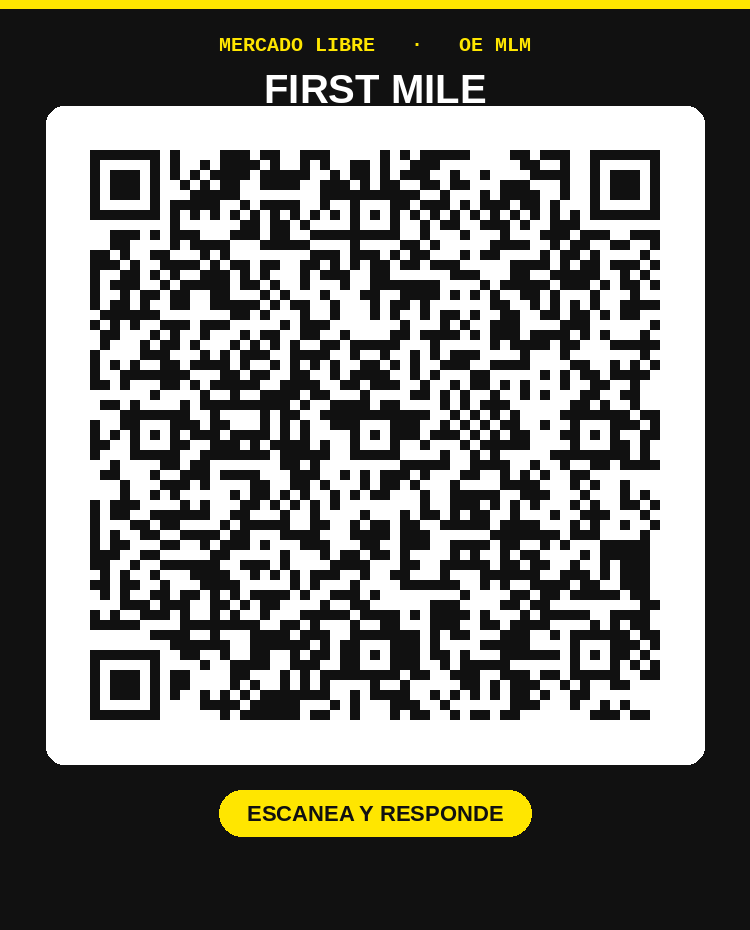
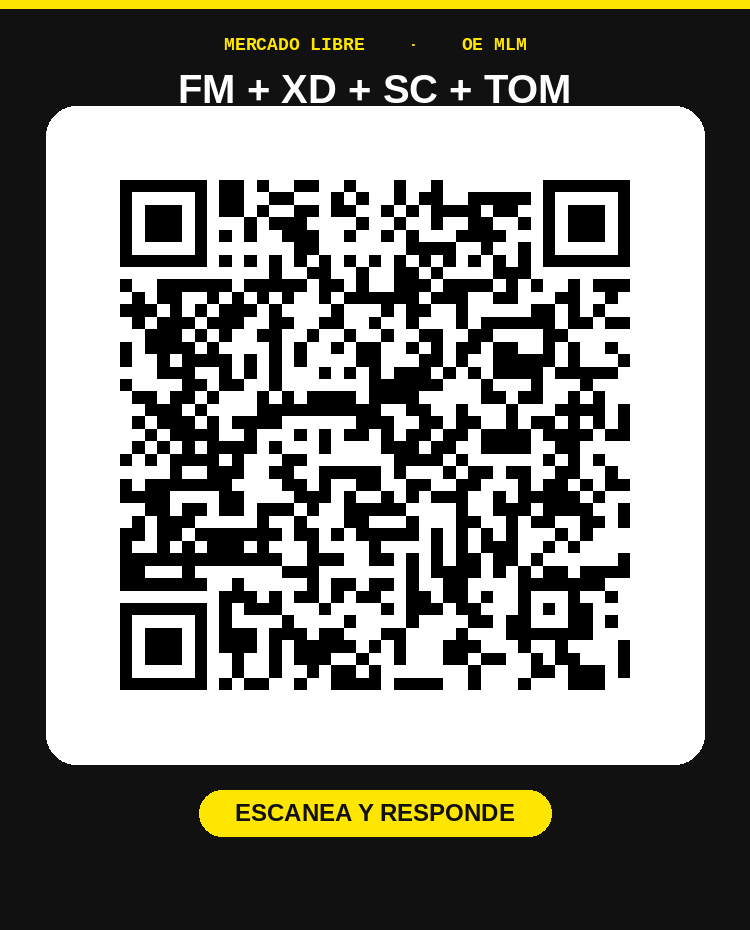
Estandarizar siglas de areas OE aprobadas por Rich (FM + XD + SC + TOM / SVC + Last Mile / Quality)
- Playbook de Supervisores: header, titulos de tarjeta QR, chips y checklist
  ahora usan las siglas aprobadas en vez de nombres completos (First Mile,
  Service Center).
- QR codes regenerados con el mismo diseño (fondo negro, panel blanco,
  boton ESCANEA Y RESPONDE) pero con el titulo actualizado; los links
  encodeados siguen siendo los mismos Forms, verificado por decodificacion.
- Hub: tarjetas de Boletines corregidas a las mismas siglas completas.

diff --git a/playbooks/Playbook_Supervisores_NL.html b/playbooks/Playbook_Supervisores_NL.html
@@ -144,7 +144,7 @@
   <div class="hdr">
     <div class="hdr-eyebrow">Mercado Libre · OE MLM</div>
     <div class="hdr-title">Playbook OE — Boletín Mensual</div>
-    <div class="hdr-sub">Guía rápida para llenar tu Form del boletín: First Mile, Service Center y Quality.</div>
+    <div class="hdr-sub">Guía rápida para llenar tu Form del boletín: FM + XD + SC + TOM, SVC + Last Mile y Quality.</div>
     <div class="hdr-badge">Versión Supervisores</div>
     <div class="hdr-ver">v2.2 · 21-ago-2026 · PMO OE MLM</div>
   </div>
@@ -240,12 +240,12 @@
           <b>¿Vas a incluir fotos?</b> (opcional) Primero sube tus imágenes a la <b>carpeta de fotos</b> de tu área (botón &ldquo;Carpeta de fotos&rdquo; abajo). Luego, dentro de Drive, clic derecho sobre cada foto → <b>Compartir</b> → <b>Copiar enlace</b>, y pega ese link en la pregunta correspondiente del Form.
         </div>
 
-        <!-- First Mile -->
+        <!-- FM + XD + SC + TOM -->
         <div class="area-card">
-          <img src="qr/QR_FirstMile.png" alt="QR First Mile"/>
+          <img src="qr/QR_FirstMile.png" alt="QR FM + XD + SC + TOM"/>
           <div>
-            <div class="area-title">First Mile</div>
-            <div class="chips"><span>First Mile</span><span>Cross Dock</span><span>Sort Center</span><span>TOM</span></div>
+            <div class="area-title">FM + XD + SC + TOM</div>
+            <div class="chips"><span>FM</span><span>XD</span><span>SC</span><span>TOM</span></div>
             <div class="area-actions">
               <a class="btn btn-primary" href="https://docs.google.com/forms/d/e/1FAIpQLSeVnYIX7DU0_gXKienuEPpBQwApll8FfDY0Klm4Mx-QYeK3Zg/viewform" target="_blank" rel="noopener">Responder Form</a>
               <a class="btn btn-secondary" href="https://drive.google.com/drive/folders/1PlEISmRix5iD_M8NW5fXHN0lxeheiXRK" target="_blank" rel="noopener">Carpeta de fotos</a>
@@ -253,12 +253,12 @@
           </div>
         </div>
 
-        <!-- Service Center -->
+        <!-- SVC + Last Mile -->
         <div class="area-card">
-          <img src="qr/QR_ServiceCenter.png" alt="QR Service Center"/>
+          <img src="qr/QR_ServiceCenter.png" alt="QR SVC + Last Mile"/>
           <div>
-            <div class="area-title">Service Center</div>
-            <div class="chips"><span>Service Center</span><span>Last Mile</span><span>SVC</span><span>LM</span></div>
+            <div class="area-title">SVC + Last Mile</div>
+            <div class="chips"><span>SVC</span><span>LM</span></div>
             <div class="area-actions">
               <a class="btn btn-primary" href="https://docs.google.com/forms/d/e/1FAIpQLSeMYkJM12AhCzB3VlvUbZ4WaARWrQotAZm5gcxRHj-z_g9eNw/viewform" target="_blank" rel="noopener">Responder Form</a>
               <a class="btn btn-secondary" href="https://drive.google.com/drive/folders/1bSokpLlLd_8-b8lUfSOdDi8S6akZ4Vkj" target="_blank" rel="noopener">Carpeta de fotos</a>
@@ -288,7 +288,7 @@
 
         <div class="checklist-grid">
           <div class="checklist">
-            <div class="cl-title">First Mile y Service Center</div>
+            <div class="cl-title">FM + XD + SC + TOM y SVC + Last Mile</div>
             <ul>
               <li>Lista de proyectos activos del mes (nombre, estatus, breve descripción). El Form permite hasta <b>6 proyectos</b>, pero no es obligatorio llenarlos todos: prioriza los de mayor impacto.</li>
               <li>Historias de éxito (opcional, máximo <b>2 por mes</b>): título claro, descripción breve del impacto, y una métrica o dato que lo respalde.</li>
@@ -303,8 +303,8 @@
               <li>Mensaje de bienvenida del mes (2–3 líneas): tu resumen ejecutivo.</li>
               <li>Proyectos o iniciativas del mes (nombre, estatus, breve descripción). Hasta <b>6 proyectos</b>, no obligatorio llenarlos todos.</li>
               <li>Secciones editoriales: <b>Resultados del Cierre</b> y <b>Posicionamiento en Auditorías</b>, hasta <b>2 historias por sección</b>.</li>
-              <li>Eventos relevantes del mes (capacitaciones, visitas, auditorías, logros) — igual que First Mile y Service Center.</li>
-              <li>Nuevos ingresos al equipo (nombre completo y correo @mercadolibre.com, si aplica) — igual que First Mile y Service Center.</li>
+              <li>Eventos relevantes del mes (capacitaciones, visitas, auditorías, logros) — igual que FM + XD + SC + TOM y SVC + Last Mile.</li>
+              <li>Nuevos ingresos al equipo (nombre completo y correo @mercadolibre.com, si aplica) — igual que FM + XD + SC + TOM y SVC + Last Mile.</li>
               <li>Links a fotos de evidencia (opcional, sube antes al Drive de tu área).</li>
             </ul>
           </div>

diff --git a/index.html b/index.html
@@ -680,13 +680,13 @@
           <div class="bulletin-grid">
             <a class="bulletin-card" href="boletines/2026-07/Boletin_FirstMile.html" target="_blank" rel="noopener">
               <div class="bulletin-card-icon"><svg viewBox="0 0 24 24" fill="none" stroke-width="2" stroke-linecap="round" stroke-linejoin="round"><path d="M6 3h9l4 4v13a1 1 0 0 1-1 1H6a1 1 0 0 1-1-1V4a1 1 0 0 1 1-1Z"/><path d="M14 3v4a1 1 0 0 0 1 1h4"/><path d="M8 12h8M8 16h8M8 8h3"/></svg></div>
-              <div class="bulletin-card-title">FM · XD · TOM</div>
+              <div class="bulletin-card-title">FM + XD + SC + TOM</div>
               <div class="bulletin-card-sub">Boletín mensual de Excelencia Operacional</div>
               <div class="bulletin-card-link">Ver boletín <svg viewBox="0 0 24 24" fill="none" stroke-width="2" stroke-linecap="round" stroke-linejoin="round"><path d="M7 17 17 7M7 7h10v10"/></svg></div>
             </a>
             <a class="bulletin-card" href="boletines/2026-07/Boletin_ServiceCenter.html" target="_blank" rel="noopener">
               <div class="bulletin-card-icon"><svg viewBox="0 0 24 24" fill="none" stroke-width="2" stroke-linecap="round" stroke-linejoin="round"><path d="M6 3h9l4 4v13a1 1 0 0 1-1 1H6a1 1 0 0 1-1-1V4a1 1 0 0 1 1-1Z"/><path d="M14 3v4a1 1 0 0 0 1 1h4"/><path d="M8 12h8M8 16h8M8 8h3"/></svg></div>
-              <div class="bulletin-card-title">SVC</div>
+              <div class="bulletin-card-title">SVC + Last Mile</div>
               <div class="bulletin-card-sub">Boletín mensual de Excelencia Operacional</div>
               <div class="bulletin-card-link">Ver boletín <svg viewBox="0 0 24 24" fill="none" stroke-width="2" stroke-linecap="round" stroke-linejoin="round"><path d="M7 17 17 7M7 7h10v10"/></svg></div>
             </a>
